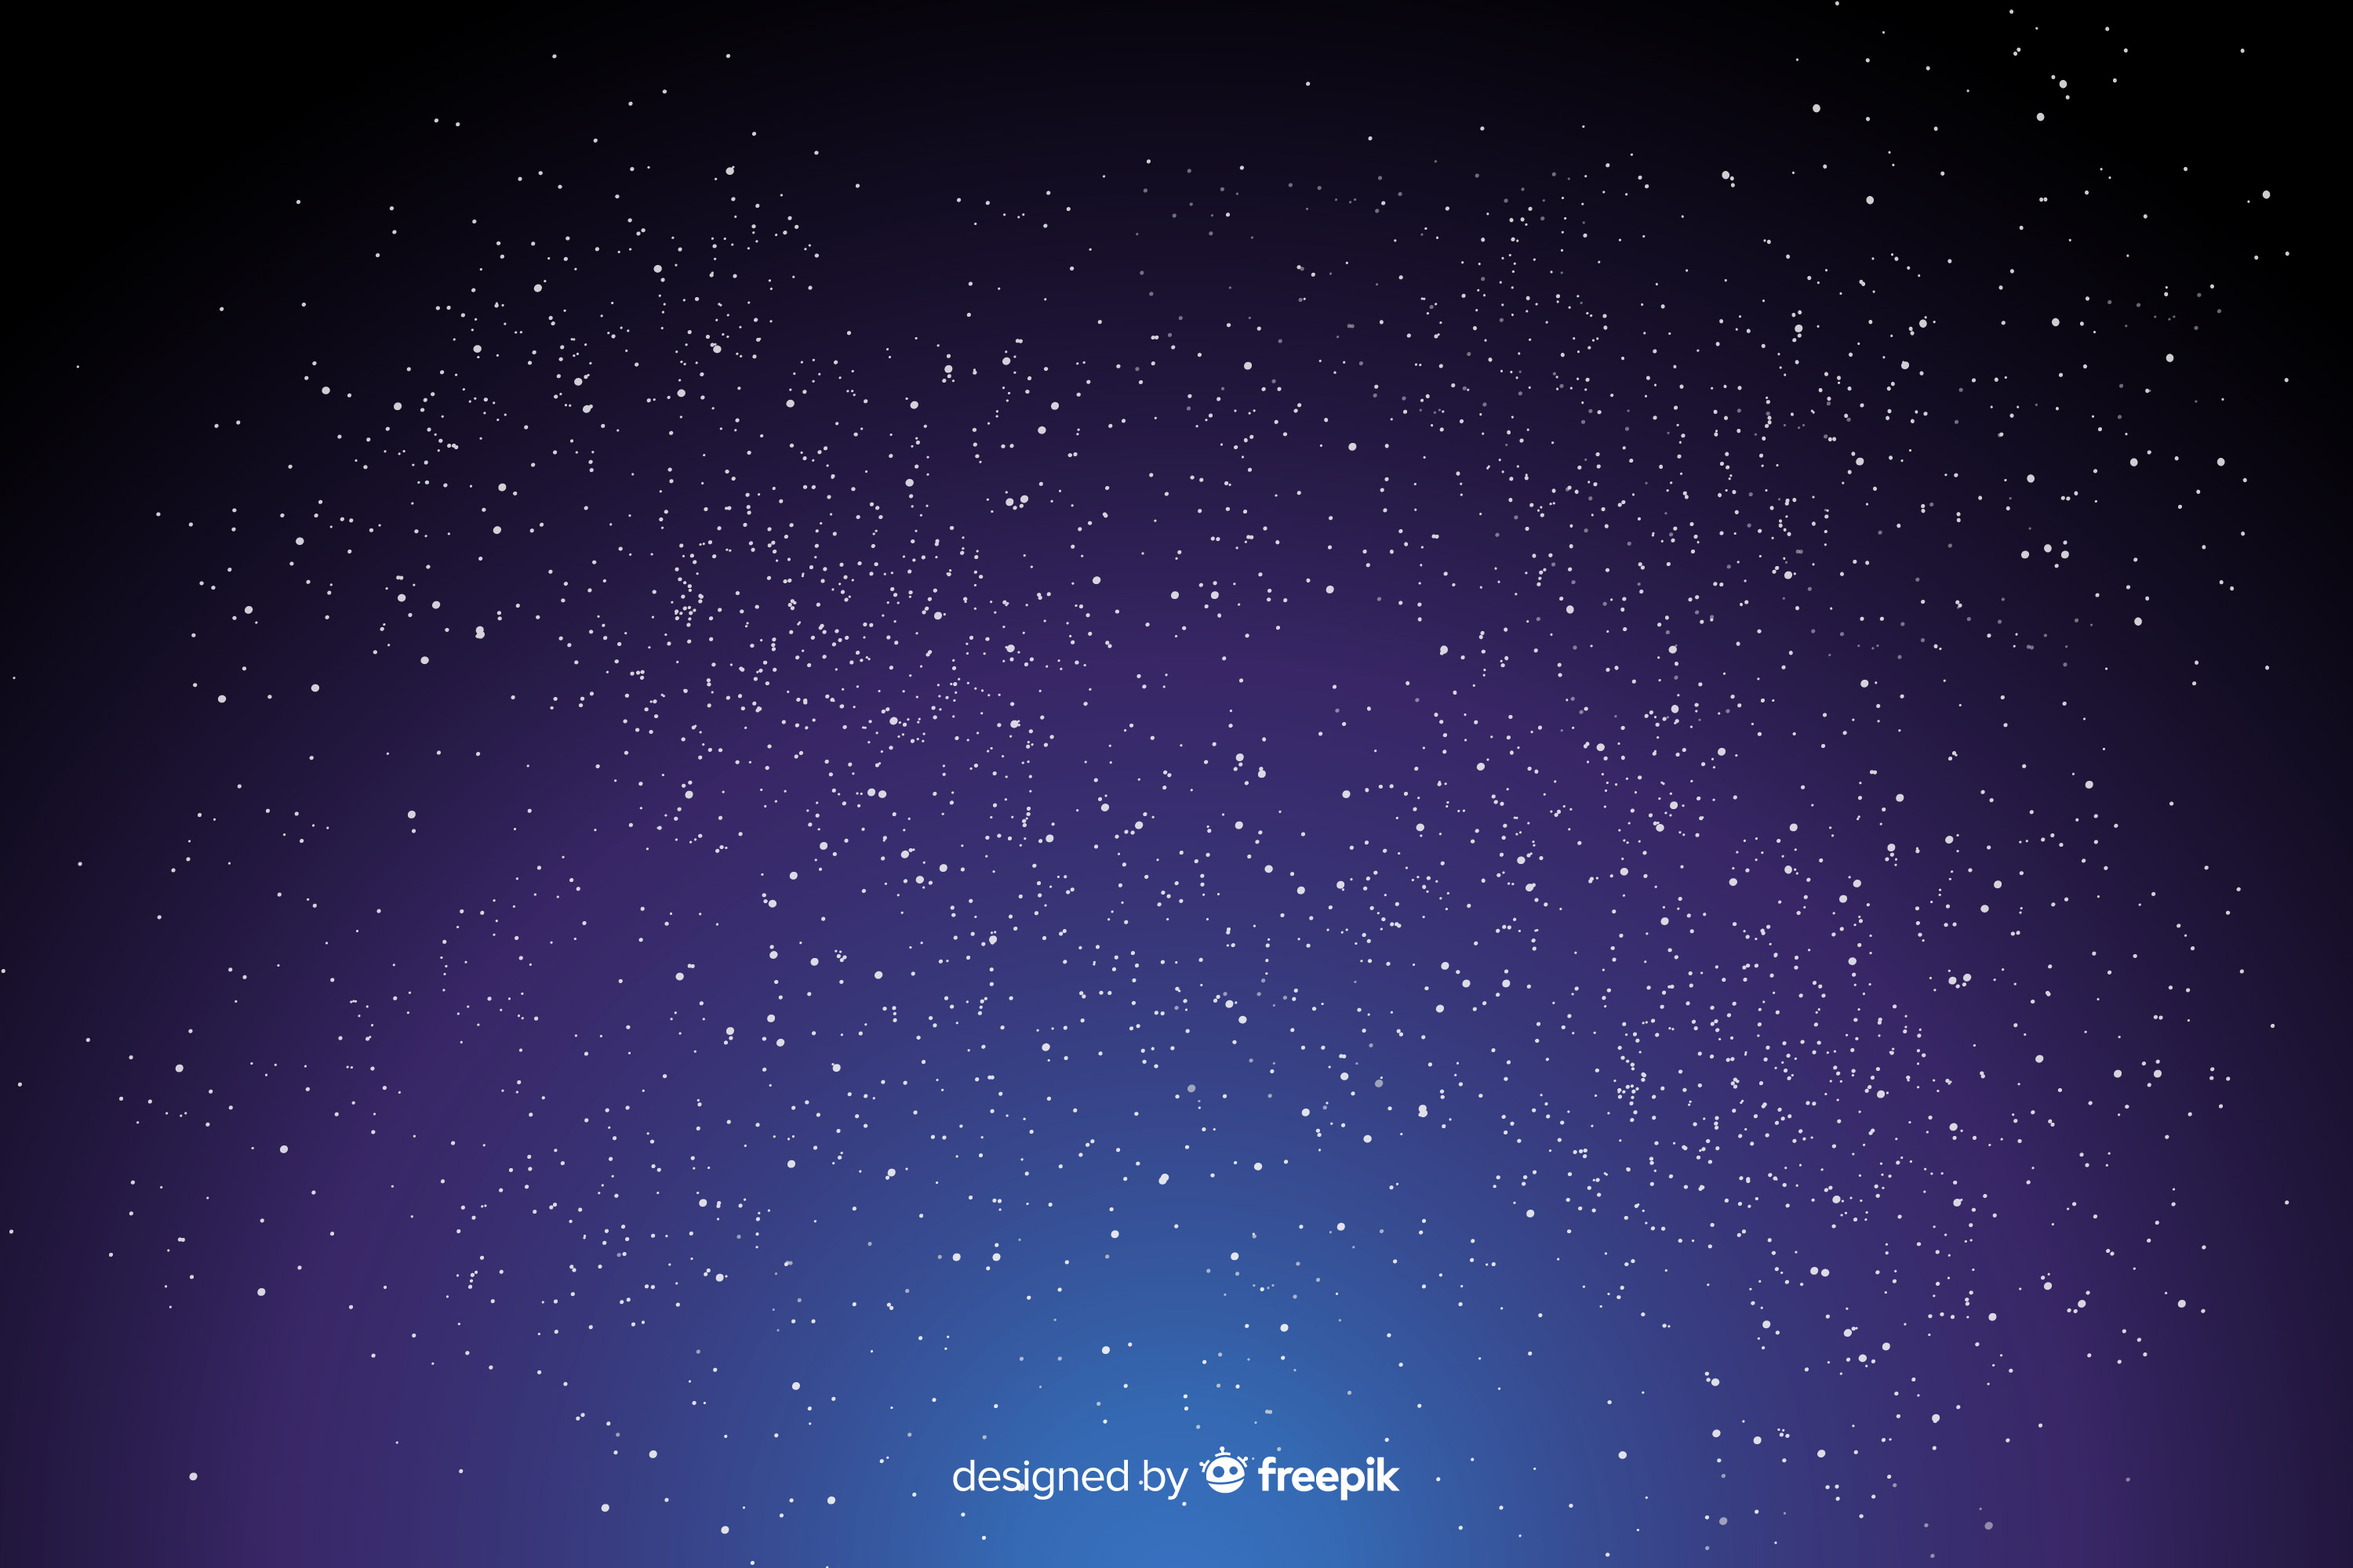
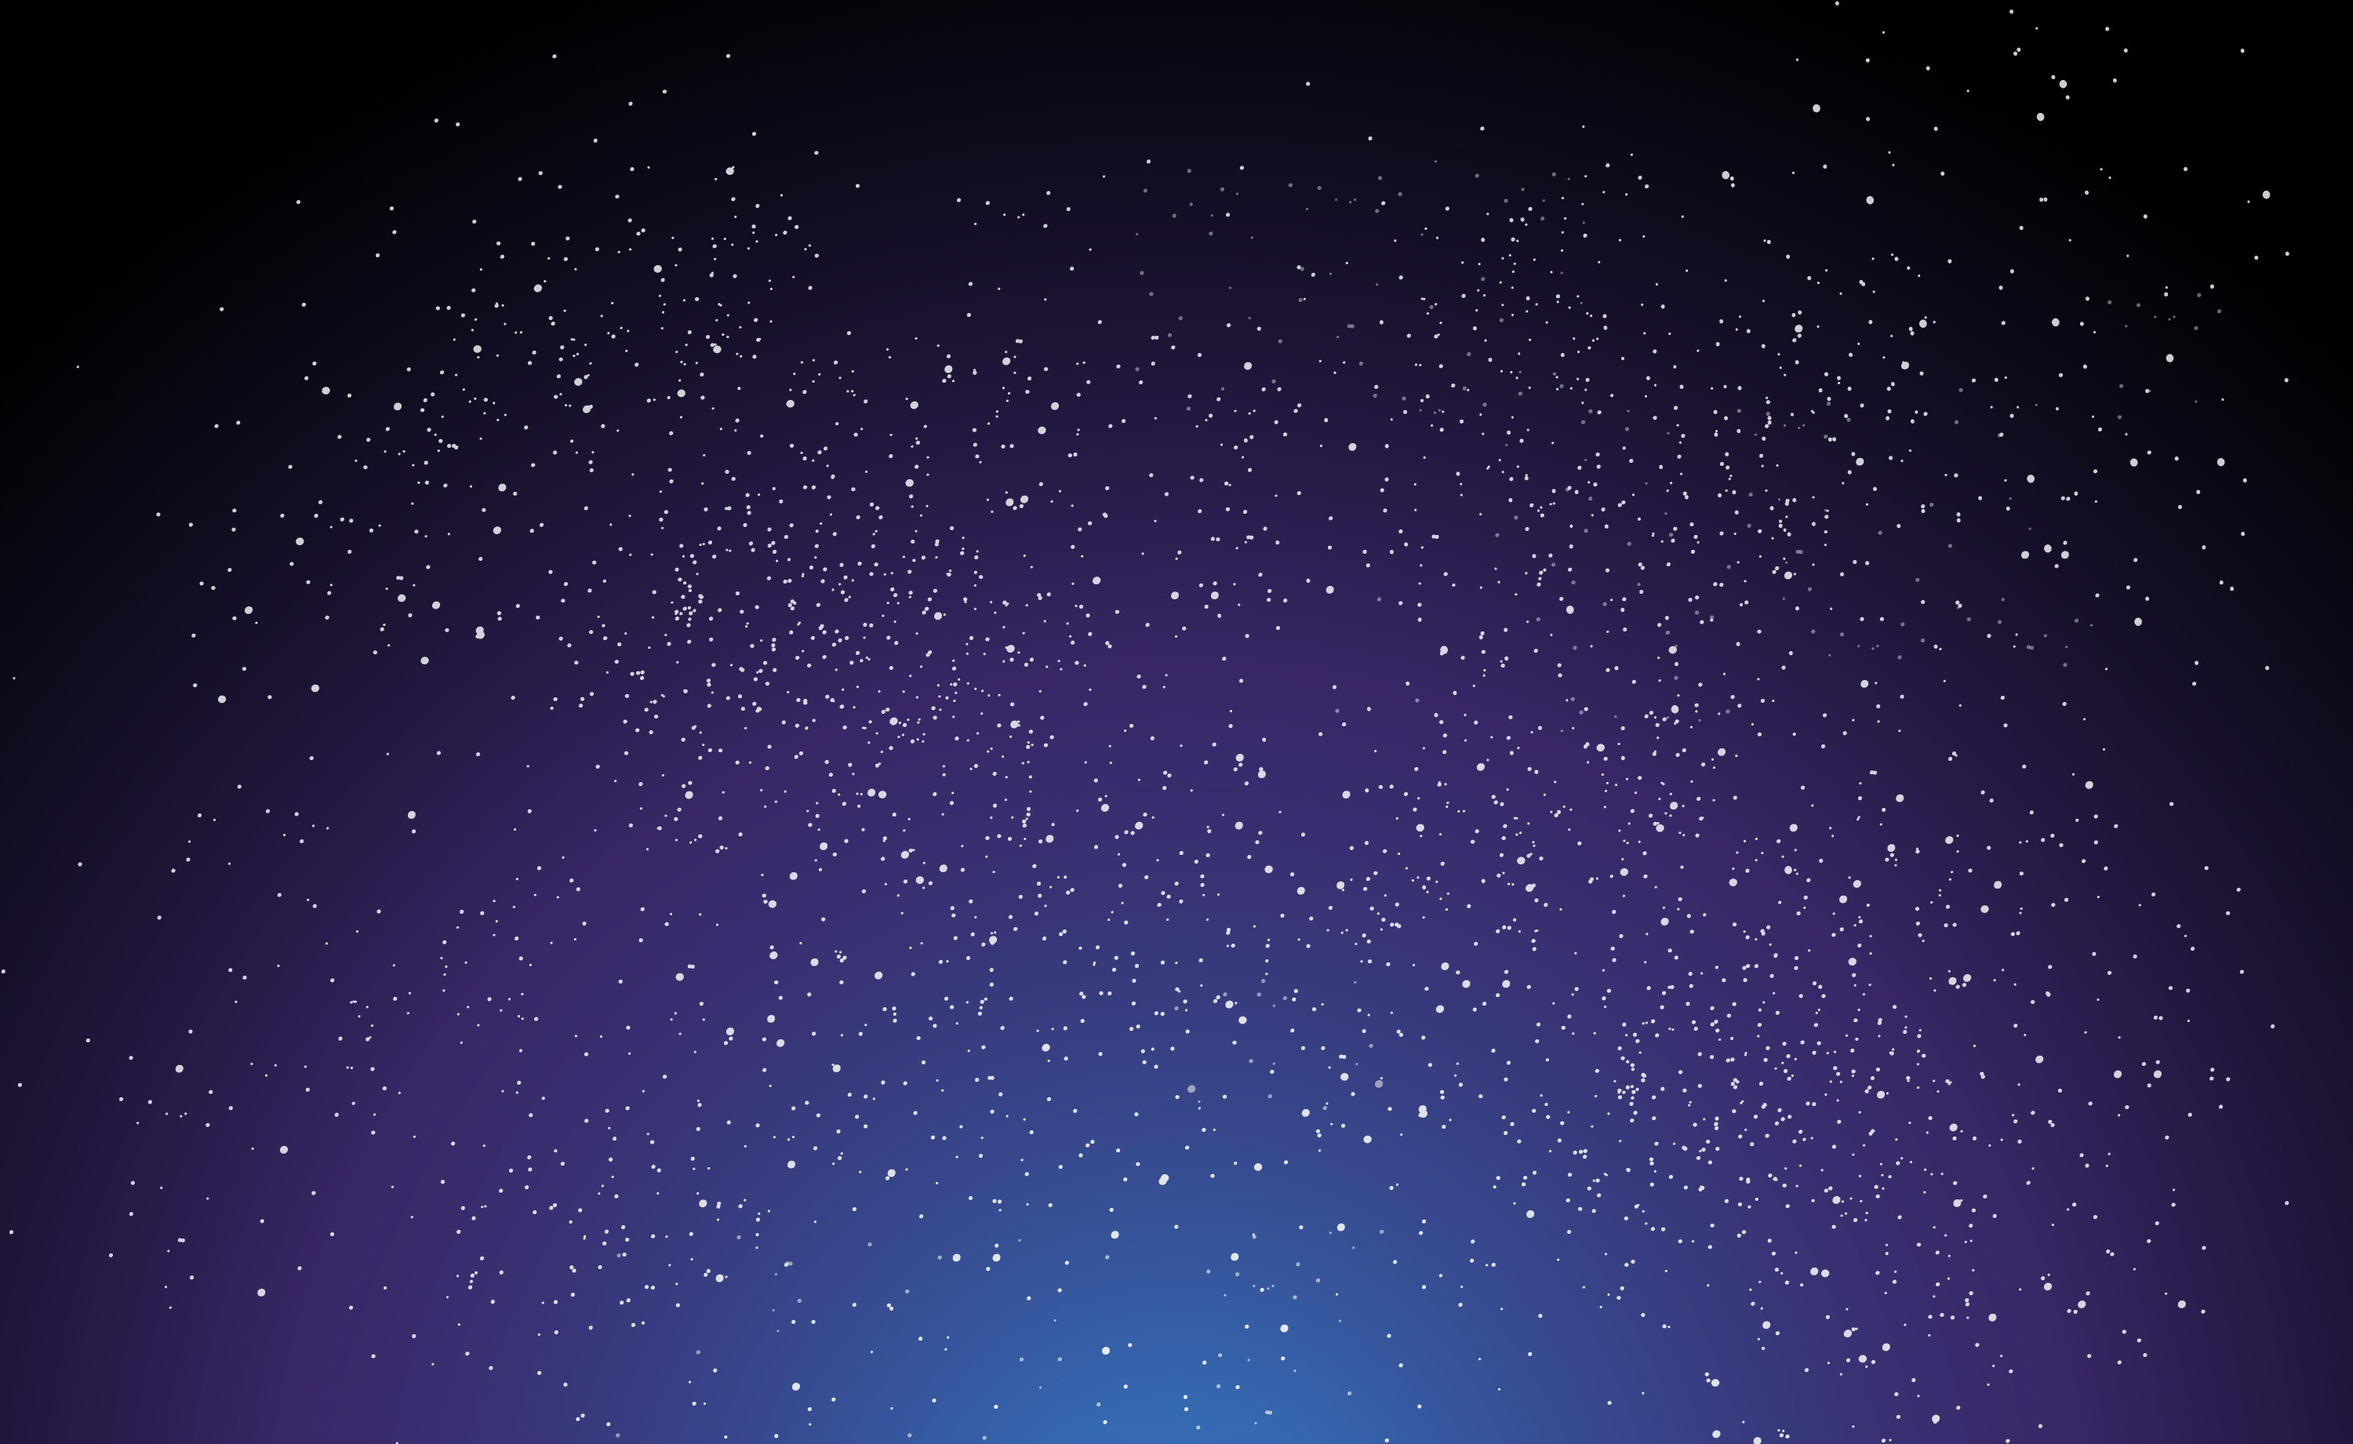
modifique los background

diff --git a/css/style.css b/css/style.css
@@ -1,42 +1,37 @@
-
 * {
   margin: 0;
   padding: 0;
   box-sizing: border-box;
 }
-body{
-  margin: 100px ;
+body {
+  margin: 100px;
   /*display: flex;
   flex-wrap: wrap;*/
   align-items: center;
   background-image: url(../images/2823368.jpg);
-  
+  background-size: cover;
+  height: 100vh;
 }
 /* Titulo principal*/
-main{
- border: 1px solid red;
- width: 35%;
- /*height: 1000px;*/
+main {
+  border: 1px solid red;
+  width: 35%;
+  /*height: 1000px;*/
   text-align: center;
   color: aliceblue;
-  font-family: Georgia, 'Times New Roman', Times, serif;
-  
-  
+  font-family: Georgia, "Times New Roman", Times, serif;
 }
-
 
 body > section {
   font-family: sans-serif;
   font-weight: bold;
   display: flex;
   flex-wrap: wrap;
-  
 }
 /*cards Container*/
-.container{
+.container {
   max-width: 75%;
   margin: auto;
-
 }
 
 .card {
@@ -45,7 +40,6 @@ body > section {
   perspective: 600px;
   margin: 1rem;
   display: none;
- 
 }
 
 .content {
@@ -54,7 +48,6 @@ body > section {
   height: 100%;
   transition: transform 1s;
   transform-style: preserve-3d;
-   
 }
 
 .front,
@@ -63,6 +56,7 @@ body > section {
   height: 100%;
   width: 100%;
   background-image: url(../images/backgQuestion.png);
+  background-size: cover;
   display: grid;
   place-content: center;
   font-size: 8rem;
@@ -73,12 +67,16 @@ body > section {
 }
 
 .back {
-  background: linear-gradient(0deg, rgb(87, 1, 116) 20%, rgb(95, 253, 253) 100%);
-  transform: rotateY( 180deg );
+  background: linear-gradient(
+    0deg,
+    rgb(87, 1, 116) 20%,
+    rgb(95, 253, 253) 100%
+  );
+  transform: rotateY(180deg);
 }
 
 .card.flipped .content {
-  transform: rotateY( 180deg ) ;
+  transform: rotateY(180deg);
   transition: transform 0.5s;
 }
 
@@ -93,25 +91,25 @@ body > section {
   justify-content: center;
 }
 .outer {
-  
   position: relative;
   background: linear-gradient(#14ffe9, #ffeb3b, #ff00e0);
 }
-.button{
+.button {
   height: 100px;
   width: 250px;
   border-radius: 50px;
 }
-.outer button, .outer span{
-position: absolute;
-top: 50%;
-left: 50%;
-transform: translate(-50%, -50%);
+.outer button,
+.outer span {
+  position: absolute;
+  top: 50%;
+  left: 50%;
+  transform: translate(-50%, -50%);
 }
-.outer button{
+.outer button {
   background: #111;
   color: #f2f2f2;
-  outline:none;
+  outline: none;
   border: none;
   font-size: 20px;
   z-index: 1;
@@ -119,41 +117,40 @@ transform: translate(-50%, -50%);
   cursor: pointer;
 }
 
-.button button{
+.button button {
   height: 80px;
-  width: 220px; 
+  width: 220px;
   border-radius: 40px;
 }
 /* cambia diseño */
-.outer span{
+.outer span {
   height: 100%;
   width: 100%;
   background: inherit;
 }
- .button span{
+.button span {
   border-radius: 50px;
 }
-.outer span:nth-child(1){
-filter : blur(7px);
+.outer span:nth-child(1) {
+  filter: blur(7px);
 }
-.outer span:nth-child(2){
+.outer span:nth-child(2) {
   filter: blur(14px);
 }
-.outer{
+.outer {
   animation: rotate 1.5s linear infinite;
 }
-@keyframes rotate{
-  0%{
-    filter : hue-rotate(0deg);
+@keyframes rotate {
+  0% {
+    filter: hue-rotate(0deg);
   }
-  100%{
-    filter:hue-rotate(360deg);
+  100% {
+    filter: hue-rotate(360deg);
   }
 }
 /* posicionarlo en el centro */
 .center {
-
-margin-top:300px;
+  margin-top: 300px;
 }
 
 /*Media Query*/
@@ -220,5 +217,3 @@ margin-top:300px;
 
 
 }*/
-
-
